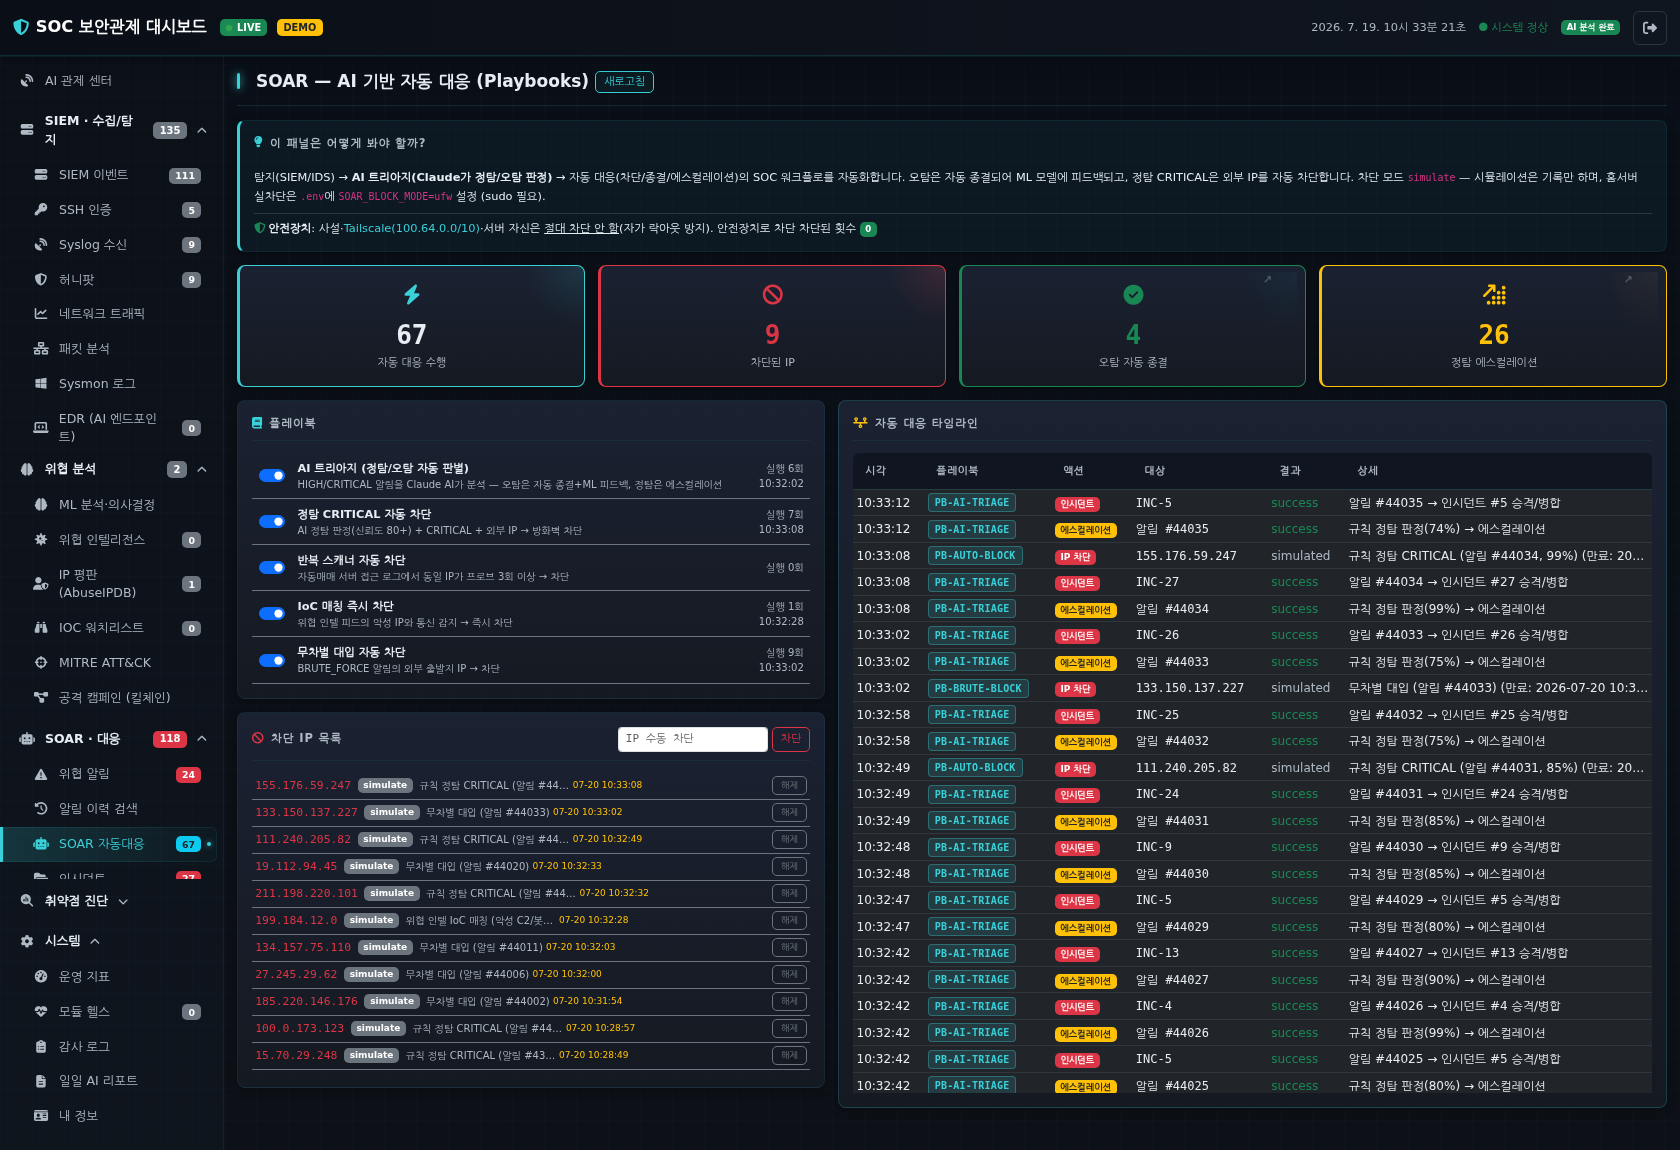
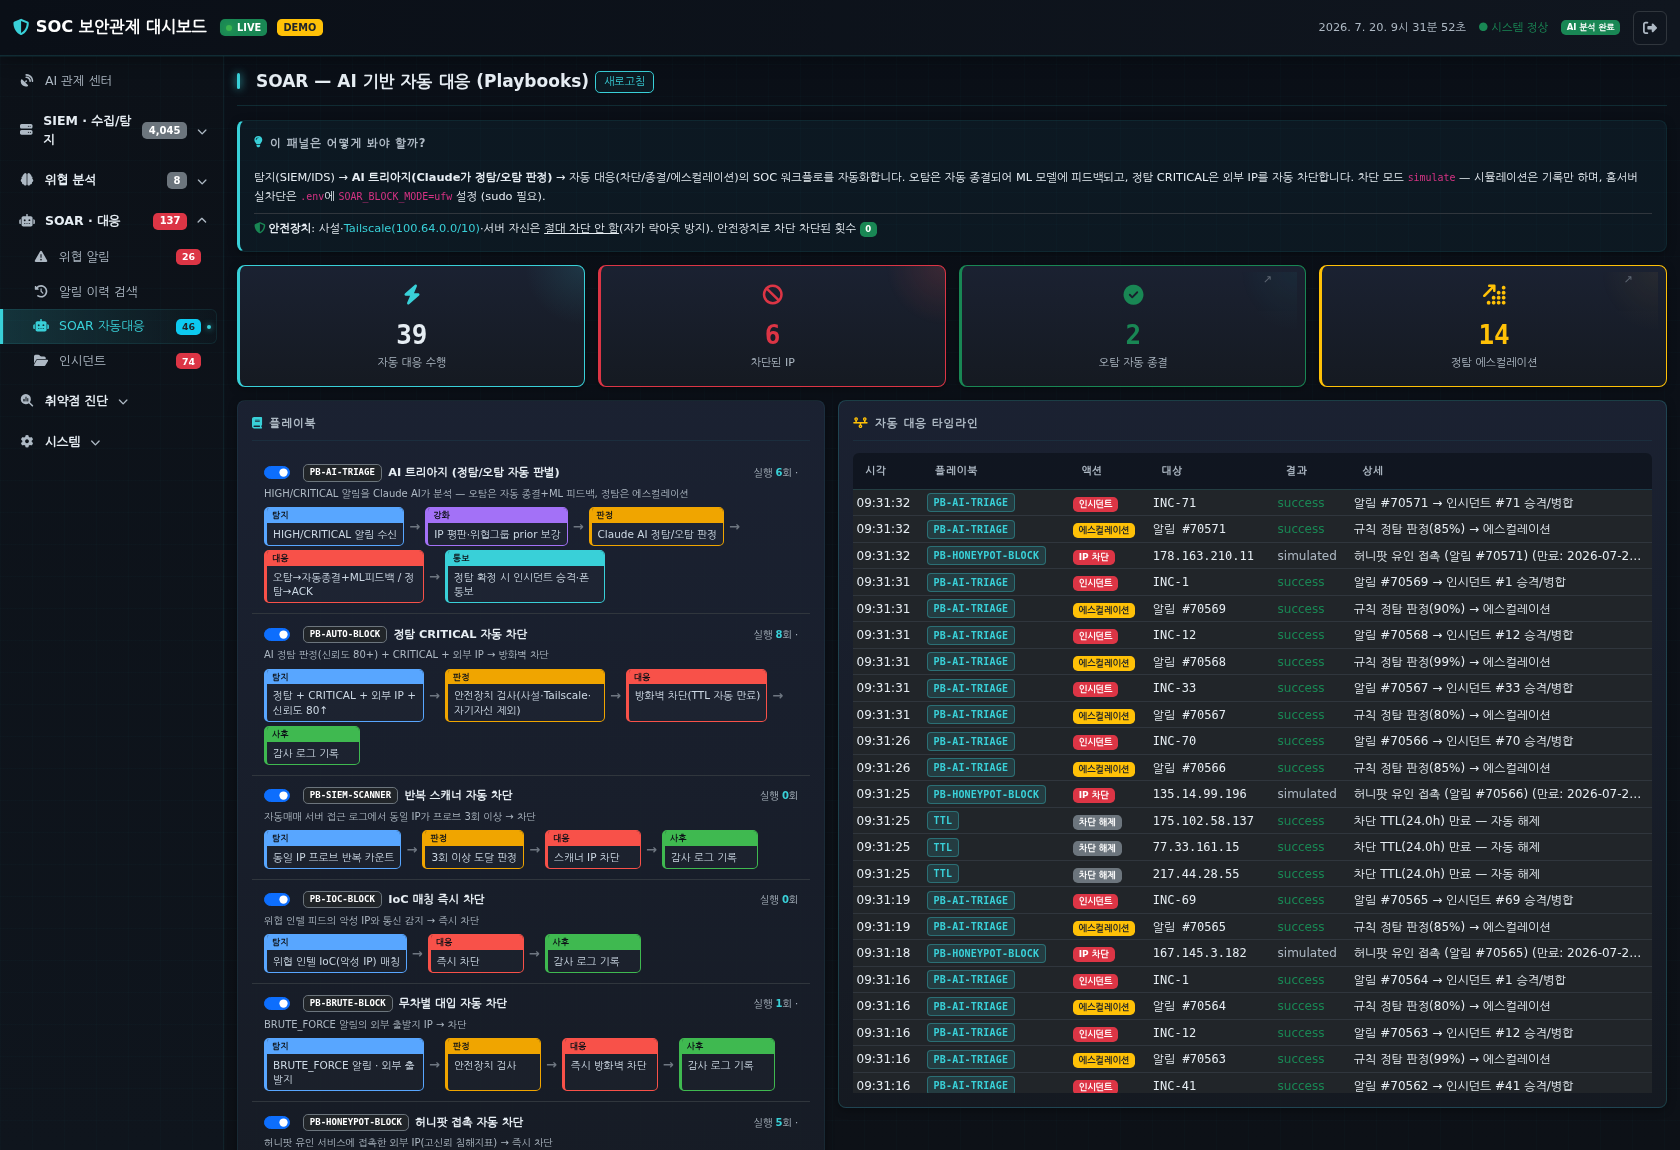
docs: 포트폴리오에 Splunk SIEM 검색·상관관계·플레이북 시각화 반영
- 13-siem-search(Splunk 스타일), 14-siem-correlation 스크린샷 추가
- 07-soar 를 플레이북 단계 흐름도 화면으로 교체
- PORTFOLIO.md 에 SIEM 검색/상관관계 섹션·플레이북 설명 추가

Claude-Session: https://claude.ai/code/session_01QZLygzWogx82ms8uouDnTS

diff --git a/docs/PORTFOLIO.md b/docs/PORTFOLIO.md
@@ -74,7 +74,22 @@ SOC 파이프라인을 한눈에 봅니다 — **① 수집(SIEM) → ② AI 트
 **연결만 해도 HIGH, 자격증명·명령 입력이 있으면 CRITICAL**로 파이프라인에 투입됩니다.
 포착한 자격증명 시도(`root:admin123` 등)와 공격자 IP를 그대로 남깁니다.
 
-### 5. Syslog 원격 수집
+### 5-1. SIEM 이벤트 검색 (Splunk 스타일)
+![SIEM 검색](portfolio_img/13-siem-search.png)
+
+전문 SIEM(Splunk)처럼 **SPL 검색바 + 타임라인 히스토그램 + 필드 사이드바 + raw 이벤트 스트림**으로
+구성했습니다. 검색어로 즉시 필터링하고, 왼쪽 FIELDS에서 분류·소스·심각도·IP별 분포를 클릭해 드릴다운하며,
+이벤트 행을 클릭하면 `host=`·`src_ip=`·`status=` 같은 필드가 펼쳐집니다.
+
+### 5-2. SIEM 상관관계 분석
+![SIEM 상관관계](portfolio_img/14-siem-correlation.png)
+
+개별 알림을 **상관 규칙**으로 결합해 고신뢰 위협을 발화합니다 —
+한 IP의 **다중 벡터**, **정찰 후 침투**, **지속 무차별 대입**, 여러 IP의 **분산 공격**.
+발화된 상관 탐지는 `CORRELATED` 알림으로 SOAR 파이프라인(→ 인시던트 승격)에 재투입됩니다.
+(킬체인 캠페인 뷰가 '스토리 요약'이라면, 이쪽은 '새 상관 알림 생성'입니다.)
+
+### 5-3. Syslog 원격 수집
 ![Syslog](portfolio_img/05-syslog.png)
 
 자동매매 KR/USA 서버가 접속 시도를 **syslog(UDP/TCP)**로 전송하면 실시간 수신·분류합니다.
@@ -91,7 +106,8 @@ WordPress 스캔·환경파일(`/.env`) 탈취·SQLi 등 의심 요청을 자동
 ![SOAR](portfolio_img/07-soar.png)
 
 AI 트리아지 결과에 따라 **정탐은 자동 차단·에스컬레이션, 오탐은 자동 종결**합니다.
-차단은 TTL(자동 만료)·allowlist 안전장치를 갖추고, 기본은 시뮬레이션 모드로 동작합니다.
+각 플레이북은 **탐지 → 강화 → 판정 → 대응 → 통보 → 사후**의 단계 흐름(runbook)으로 시각화되며,
+차단은 TTL(자동 만료)·allowlist 안전장치를 갖추고 기본은 시뮬레이션 모드로 동작합니다.
 
 ### 8. 자체 ML 분석
 ![ML](portfolio_img/08-ml.png)